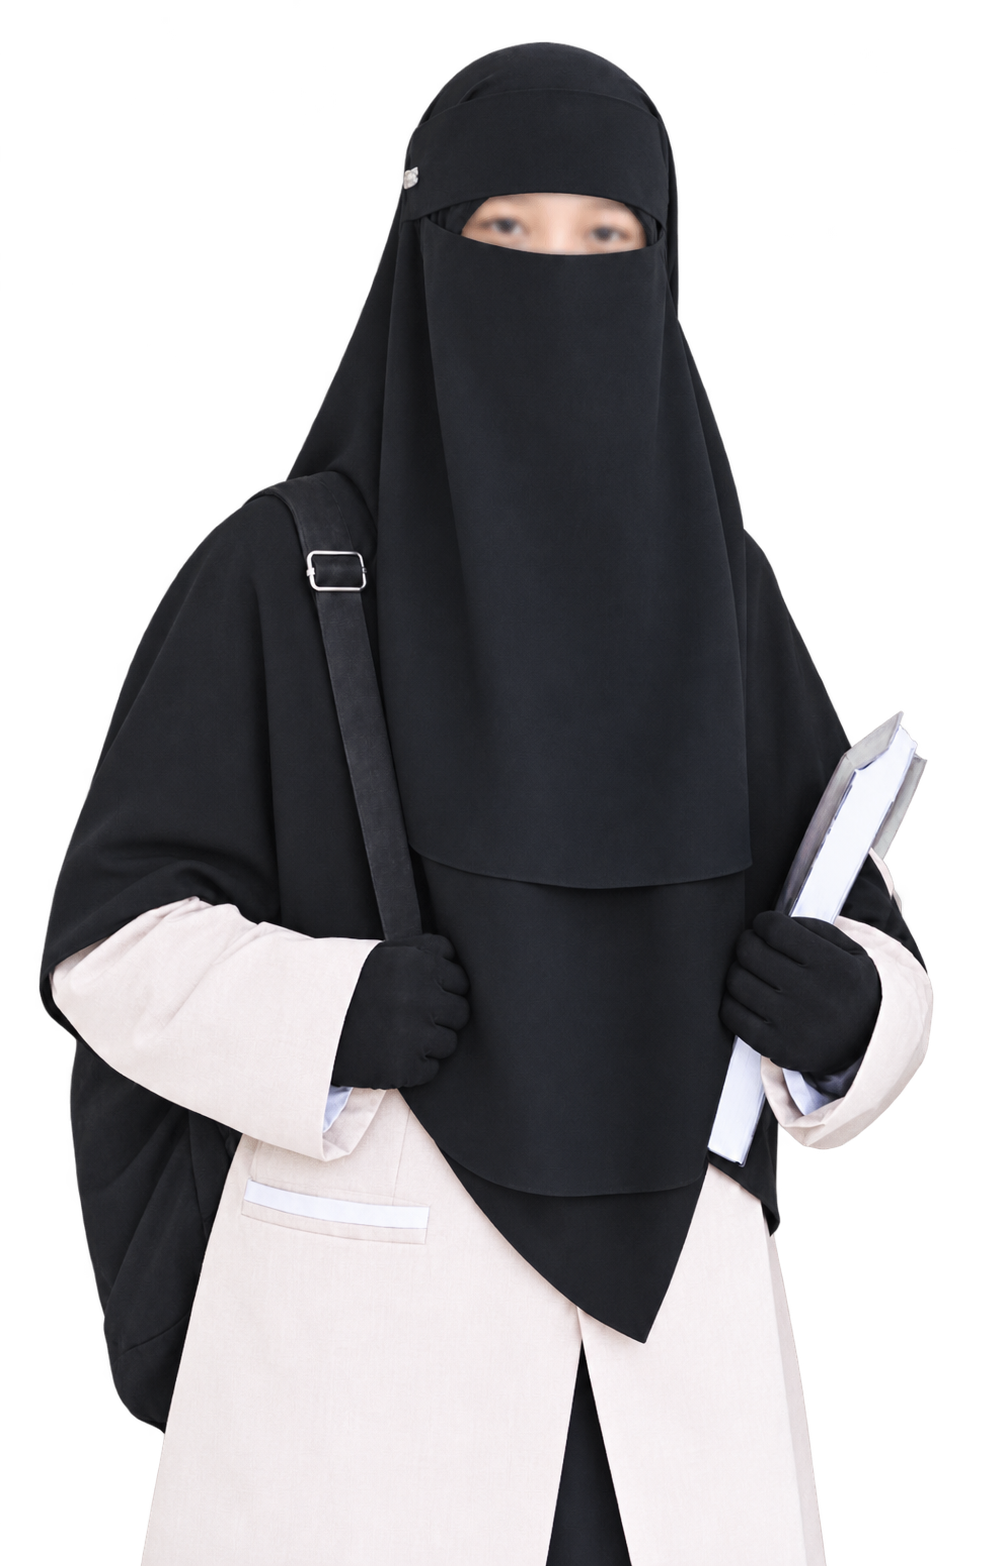
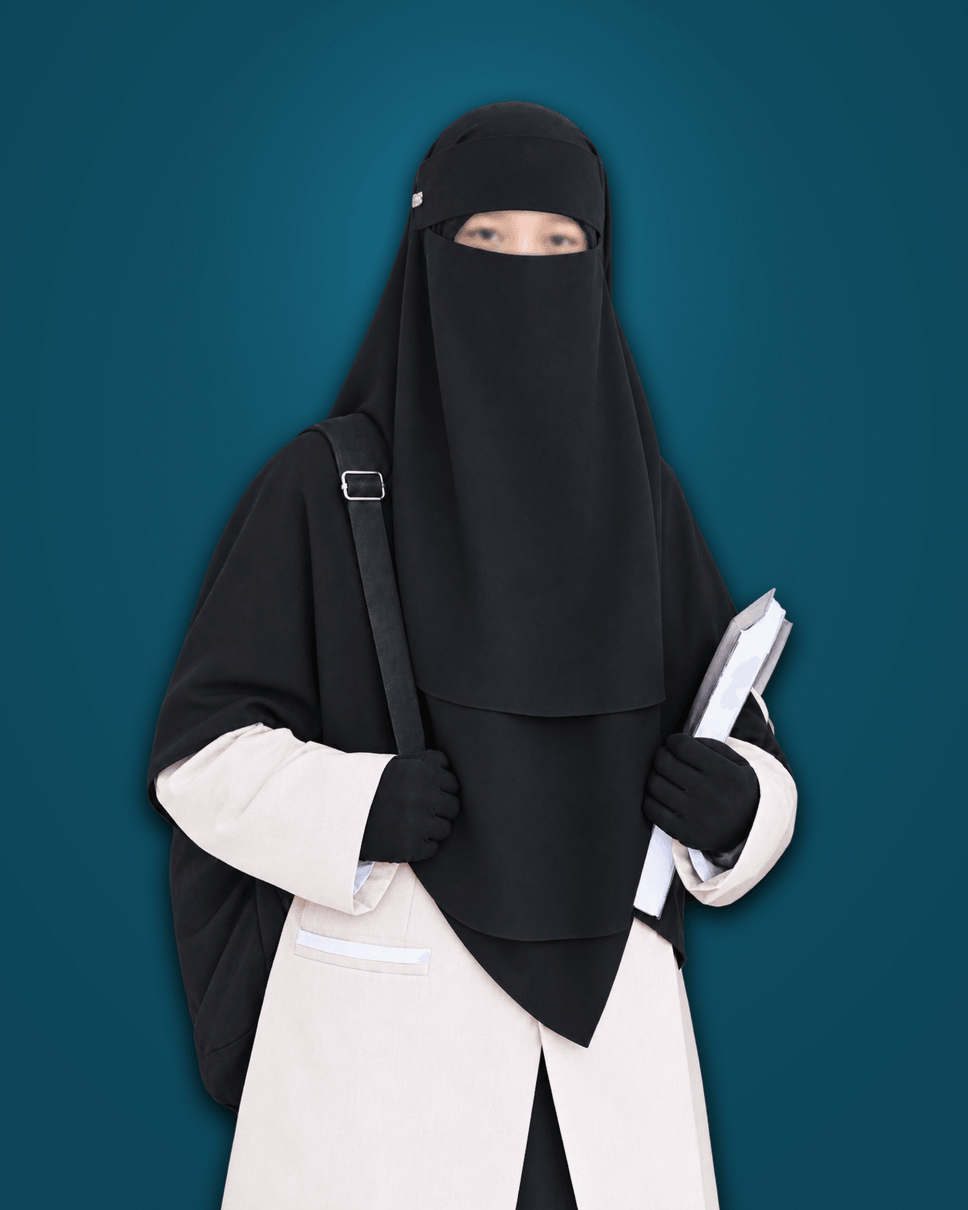
feat(hero): harmonisasi Twin System Al-Imam simetris 1:1 dengan Ulul Albaab (Studio 4:5 backdrop, checklist fitur, CTA)

diff --git a/src/components/home/HeroSection.tsx b/src/components/home/HeroSection.tsx
@@ -10,6 +10,7 @@ import {
   BookOpen,
   Download,
   ShieldCheck,
+  CheckCircle2,
 } from "lucide-react";
 import { Container } from "@/components/layout/Container";
 import { BRANDING } from "@/config/branding";
@@ -133,31 +134,44 @@ export default function HeroSection() {
               <div className="h-px w-8 bg-secondary" />
             </div>
 
-            {/* 3 Action Buttons — pakai .btn-primary yang sudah ada di globals.css */}
+            {/* Trust checklist — Identik dengan Ulul Albaab (Twin Sister Standard) */}
+            <ul
+              className={`flex flex-wrap gap-x-5 gap-y-2 justify-center lg:justify-start ${enter}`}
+              style={delay(260)}
+            >
+              {["MTs & IL Putri", "Kurikulum TICE Terpadu", "Boarding Asrama Representatif"].map((item) => (
+                <li key={item} className="flex items-center gap-1.5 text-xs text-slate-500 font-medium">
+                  <CheckCircle2 className="w-3.5 h-3.5 text-primary shrink-0" aria-hidden="true" />
+                  <span>{item}</span>
+                </li>
+              ))}
+            </ul>
+
+            {/* CTA Buttons */}
             <div
               className={`flex flex-col sm:flex-row items-center justify-center lg:justify-start gap-2.5 sm:gap-3 pt-1 sm:pt-1.5 w-full ${enter}`}
-              style={delay(280)}
+              style={delay(320)}
             >
               {session ? (
-                <a href="https://spmb.pesantren-alimam.com/dashboard" className="btn-primary w-full sm:w-auto shadow-lg shadow-rose-500/30 hover:shadow-rose-500/50">
+                <a href="https://spmb.pesantren-alimam.com/dashboard" className="btn-primary w-full sm:w-auto shadow-lg shadow-rose-500/30 hover:shadow-rose-500/50 flex items-center justify-center gap-2">
                   <span>Buka Dashboard</span>
                   <ArrowRight className="w-4 h-4" aria-hidden="true" />
                 </a>
               ) : (
-                <a href="https://spmb.pesantren-alimam.com/daftar" className="btn-primary w-full sm:w-auto shadow-lg shadow-rose-500/30 hover:shadow-rose-500/50">
+                <a href="https://spmb.pesantren-alimam.com/daftar" className="btn-primary w-full sm:w-auto shadow-lg shadow-rose-500/30 hover:shadow-rose-500/50 flex items-center justify-center gap-2">
                   <span>Daftar SPMB 2027</span>
                   <ArrowRight className="w-4 h-4" aria-hidden="true" />
                 </a>
               )}
 
-              <Link href="/program" className="btn-secondary w-full sm:w-auto">
+              <Link href="/program" className="btn-secondary w-full sm:w-auto flex items-center justify-center gap-2">
                 <span>Lihat Program</span>
               </Link>
 
               <a
                 href="/documents/Brosur-SPMB-Al-Imam-2027-2028.pdf"
                 download="Brosur-SPMB-Pesantren-Al-Imam-2027-2028.pdf"
-                className="btn-cream w-full sm:w-auto"
+                className="btn-cream w-full sm:w-auto flex items-center justify-center gap-2"
               >
                 <Download className="w-4 h-4" aria-hidden="true" />
                 <span>Unduh Brosur</span>
@@ -165,7 +179,7 @@ export default function HeroSection() {
             </div>
 
             {/* Live Countdown Card */}
-            <div className={`pt-2 sm:pt-2.5 max-w-lg mx-auto lg:mx-0 ${enter}`} style={delay(340)}>
+            <div className={`pt-2 sm:pt-2.5 max-w-lg mx-auto lg:mx-0 ${enter}`} style={delay(380)}>
               <div className="bg-white border border-slate-200 rounded-2xl p-4 sm:p-5 shadow-sm">
                 <div className="flex flex-wrap items-center justify-between gap-x-3 gap-y-1 text-xs font-extrabold text-slate-600 uppercase tracking-wider mb-2.5 sm:mb-3">
                   <span>Pendaftaran Dibuka: {REG_PERIOD_LABEL}</span>
@@ -187,8 +201,7 @@ export default function HeroSection() {
                   aria-label="Hitung mundur penutupan pendaftaran"
                 >
                   {units.map((unit) => (
-                    <div key={unit.label} className="bg-slate-50 border border-slate-200 rounded-xl p-2.5 sm:p-3">
-                      {/* Tidak memakai .stat-value: kelas itu menimpa text-primary dan ukuran font di sini */}
+                    <div key={unit.label} className="bg-pink-50/70 border border-pink-100 rounded-xl p-2.5 sm:p-3">
                       <div className="text-xl sm:text-2xl md:text-3xl font-extrabold text-primary tabular-nums leading-none">
                         {countdown.ready ? pad(unit.value) : "--"}
                       </div>
@@ -202,27 +215,21 @@ export default function HeroSection() {
             </div>
           </div>
 
-          {/* ═════════ RIGHT COLUMN: PHOTO ═════════ */}
+          {/* ═════════ RIGHT COLUMN: PHOTO (Twin Sister 4:5 Aspect Studio Standard) ═════════ */}
           <div
-            className={`relative w-full max-w-[24rem] sm:max-w-[26rem] mx-auto lg:mx-0 lg:max-w-[27.5rem] xl:max-w-[28.5rem] lg:col-span-5 lg:justify-self-end ${enter}`}
+            className={`relative w-full max-w-[26rem] sm:max-w-[28rem] mx-auto lg:mx-0 lg:max-w-[28.75rem] lg:col-span-5 lg:justify-self-end ${enter}`}
             style={delay(200)}
           >
             {/* Bingkai dekoratif di belakang foto (glow aura) */}
             <div
-              className="absolute -inset-3 rounded-[2.25rem] bg-gradient-to-br from-pink-300/50 via-rose-100/30 to-sky-200/40 blur-md"
+              className="absolute -inset-3 rounded-[2rem] bg-gradient-to-br from-pink-300/50 via-transparent to-rose-200/50 blur-sm"
               aria-hidden="true"
             />
 
-            {/* Santriwati Pesantren Al-Imam Al-Islami: Ujung atas kepala sampai bawah almamater utuh tampak jelas */}
-            <div className="relative aspect-[10/14] rounded-3xl overflow-hidden border-4 border-white bg-gradient-to-b from-[#FFF5F8] via-[#FAF8F9] to-[#FCE7F3] shadow-2xl shadow-rose-500/15 group">
-              {/* Subtle spotlight aura behind talent */}
-              <div
-                className="absolute inset-0 bg-[radial-gradient(ellipse_at_50%_35%,rgba(255,255,255,0.95),rgba(255,245,248,0.3)_60%,transparent_100%)] pointer-events-none"
-                aria-hidden="true"
-              />
-
+            {/* Foto: rasio 4:5 identik dengan Ulul Albaab */}
+            <div className="relative aspect-[4/5] rounded-3xl overflow-hidden border-4 border-white bg-white/60 shadow-2xl shadow-rose-500/25 group">
               {/* Badge Khusus Putri di dalam bingkai foto */}
-              <div className="absolute top-4 left-4 z-10 bg-white/95 backdrop-blur-md px-3.5 py-1.5 rounded-full border border-rose-200 shadow-md flex items-center gap-2">
+              <div className="absolute top-4 left-4 z-10 bg-white/90 backdrop-blur-md px-3.5 py-1.5 rounded-full border border-rose-200 shadow-md flex items-center gap-2">
                 <span className="w-2 h-2 rounded-full bg-rose-600 animate-pulse" />
                 <span className="text-[11px] font-black tracking-wider text-rose-900 uppercase">
                   Khusus Putri
@@ -230,12 +237,12 @@ export default function HeroSection() {
               </div>
 
               <Image
-                src="/images/talent-putri.png"
+                src="/images/talent-santriwati.png"
                 alt="Santriwati Pesantren Al-Imam Al-Islami"
                 fill
                 priority
-                sizes="(max-width: 1024px) 90vw, 480px"
-                className="object-contain object-bottom pt-3 transform group-hover:scale-[1.02] transition-transform duration-700 motion-reduce:transition-none drop-shadow-[0_10px_20px_rgba(225,29,116,0.12)]"
+                sizes="(max-width: 1024px) 90vw, 460px"
+                className="object-cover object-top transform group-hover:scale-105 transition-transform duration-700 motion-reduce:transition-none"
               />
             </div>
           </div>
